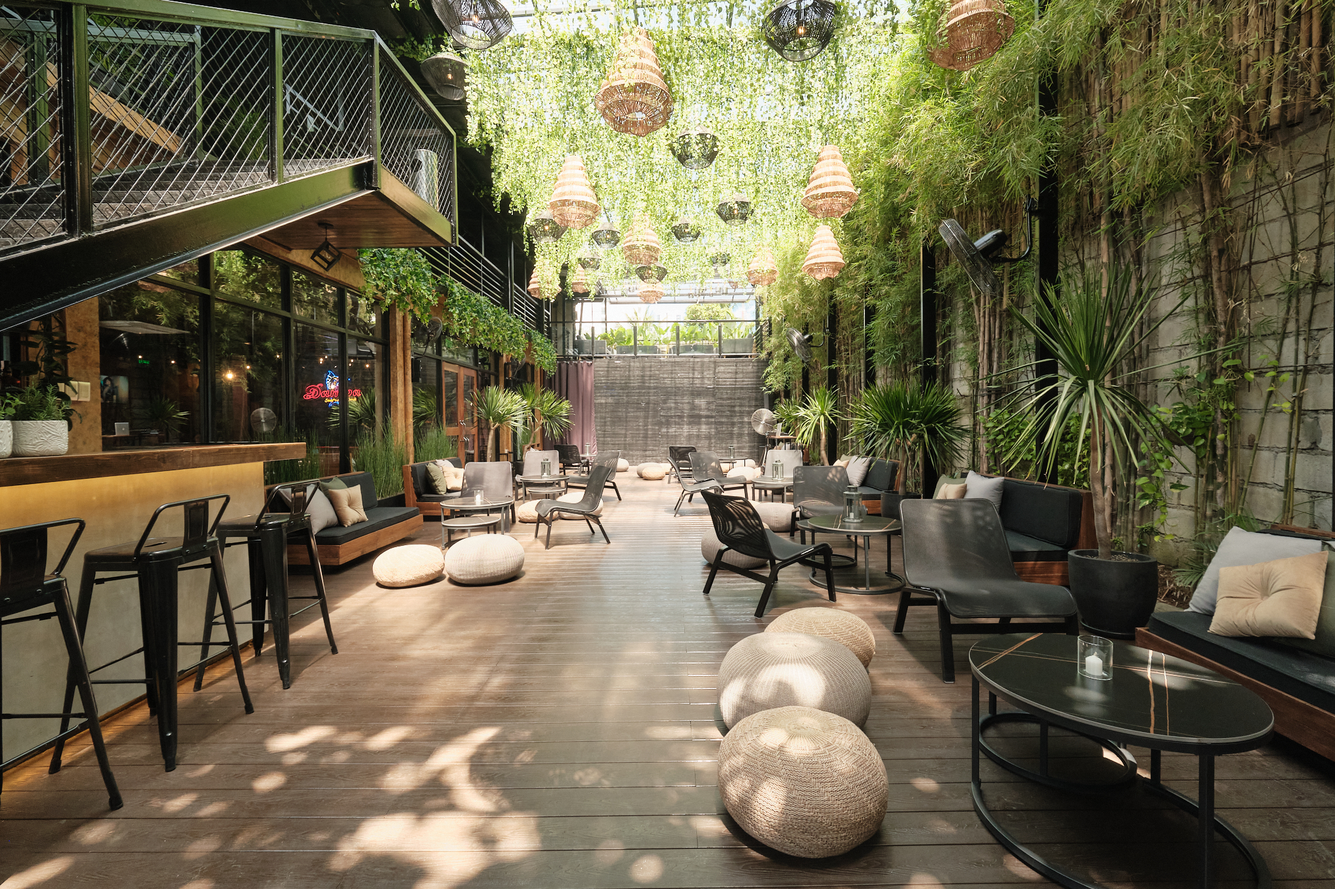
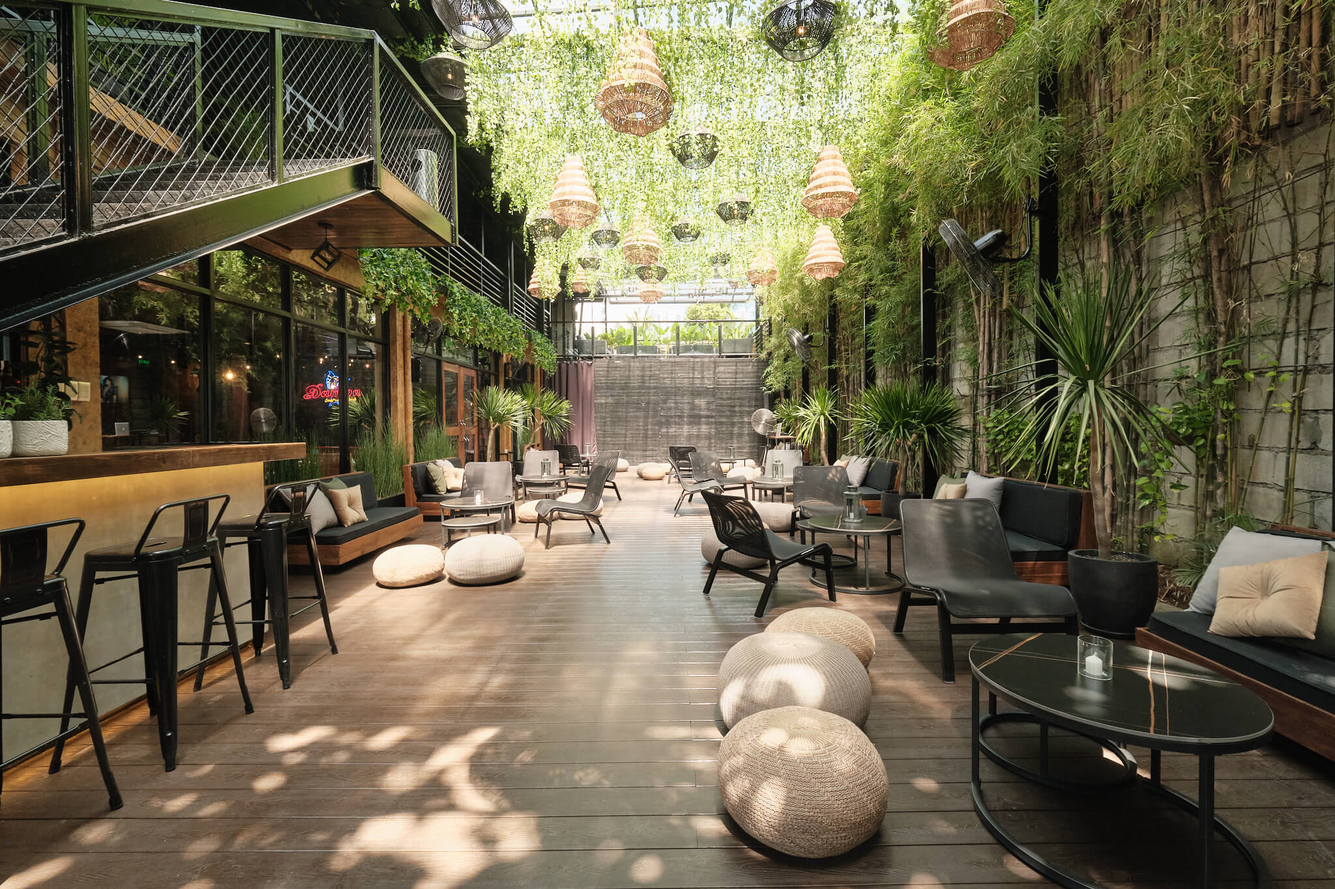
optimize image and minor revs

diff --git a/resources/views/pages/home.antlers.html b/resources/views/pages/home.antlers.html
@@ -4,11 +4,11 @@
     </div>
     <div class="flex-1 relative z-10 p-4 animation-element animate-1">
         <div class="flex items-center justify-center flex-col gap-6">
-            <h1 class="text-2xl lg:text-5xl flex w-full justify-center flex-col lg:flex-row">
-                <span class="flex-1 lg:text-right lg:py-4">bringing</span>
-                <div class="scroll-up-slider max-w-sm lg:px-4 flex flex-col mb-0">
+            <h1 class="text-xl lg:text-5xl flex w-full justify-center flex-row">
+                <span class="flex-1 text-right lg:py-4">bringing</span>
+                <div class="scroll-up-slider w-40 lg:w-auto max-w-sm lg:px-4 flex flex-col mb-0">
                     {{ taxonomy:banner-tags }}
-                    <span class="whitespace-nowrap lg:text-center lg:py-4 font-bold">{{title}}</span>
+                    <span class="whitespace-nowrap text-center lg:py-4 font-bold">{{title}}</span>
                     {{ /taxonomy:banner-tags }}
                 </div>
                 <span class="flex-1 lg:py-4">to life</span>
@@ -83,8 +83,9 @@
     <div class="flex gap-8 flex-col lg:flex-row">
         <div class="gallery-images w-full h-full grid grid-cols-1 lg:grid-cols-3 gap-8">
             {{taxonomy:gallery}}
-            <div class="relative flex-1 animation-element animate-2">
+            <div class="relative flex-1 animation-element animate-2 add-overlay">
                 <img class="object-cover w-full h-96" src="{{image}}">
+                <div class="z-10 absolute bottom-0 left-0 text-white p-2 text-xl">{{title}}</div>
             </div>
             {{/taxonomy:gallery}}
         </div>
@@ -145,7 +146,7 @@
     <div class="flex justify-center items-center gap-8 slider-nav">
         {{taxonomy:qoutes}}
         <div class="p-2">
-            <div class="flex justify-center align-center cursor-pointer">
+            <div class="flex justify-center items-center cursor-pointer">
                 <img class="rounded-full w-32 h-32" src="{{qoute_image}}">
             </div>
         </div>
@@ -158,7 +159,7 @@
     <div class="brand-slider">
         {{ taxonomy:brands }}
         <div class="p-4">
-            <div class="flex align-center justify-center">
+            <div class="flex items-center justify-center">
                 <img class="h-32" src="{{logo}}">
             </div>
         </div>
@@ -171,7 +172,7 @@
     <div class="affiliation-slider">
         {{ taxonomy:affiliations }}
         <div class="p-4">
-            <div class="flex align-center justify-center">
+            <div class="flex items-center justify-center">
                 <img class="h-32" src="{{logo}}"> 
             </div>
         </div>
@@ -179,12 +180,17 @@
     </div>
 </div>
 
-<div>        
+<div class="relative">        
     <div class="instagram-slider mb-0">
         {{ taxonomy:instagram_posts }}
             <div>
                 <img class="w-full h-64 object-cover" src="{{image}}">
             </div>
         {{ /taxonomy:instagram_posts }}
+    </div>
+    <div class="absolute top-0 left-0 w-full h-full flex justify-center items-center">
+        <div class="p-6 lg:p-8 bg-white rounded-full">
+            <svg class="w-8 h-8 lg:w-10 lg:h-10" xmlns="http://www.w3.org/2000/svg" width="2500" height="2500" viewBox="0 0 2476 2476" id="instagram"><path d="M825.4 1238c0-227.9 184.7-412.7 412.6-412.7 227.9 0 412.7 184.8 412.7 412.7 0 227.9-184.8 412.7-412.7 412.7-227.9 0-412.6-184.8-412.6-412.7m-223.1 0c0 351.1 284.6 635.7 635.7 635.7s635.7-284.6 635.7-635.7-284.6-635.7-635.7-635.7S602.3 886.9 602.3 1238m1148-660.9c0 82 66.5 148.6 148.6 148.6 82 0 148.6-66.6 148.6-148.6s-66.5-148.5-148.6-148.5-148.6 66.5-148.6 148.5M737.8 2245.7c-120.7-5.5-186.3-25.6-229.9-42.6-57.8-22.5-99-49.3-142.4-92.6-43.3-43.3-70.2-84.5-92.6-142.3-17-43.6-37.1-109.2-42.6-229.9-6-130.5-7.2-169.7-7.2-500.3s1.3-369.7 7.2-500.3c5.5-120.7 25.7-186.2 42.6-229.9 22.5-57.8 49.3-99 92.6-142.4 43.3-43.3 84.5-70.2 142.4-92.6 43.6-17 109.2-37.1 229.9-42.6 130.5-6 169.7-7.2 500.2-7.2 330.6 0 369.7 1.3 500.3 7.2 120.7 5.5 186.2 25.7 229.9 42.6 57.8 22.4 99 49.3 142.4 92.6 43.3 43.3 70.1 84.6 92.6 142.4 17 43.6 37.1 109.2 42.6 229.9 6 130.6 7.2 169.7 7.2 500.3 0 330.5-1.2 369.7-7.2 500.3-5.5 120.7-25.7 186.3-42.6 229.9-22.5 57.8-49.3 99-92.6 142.3-43.3 43.3-84.6 70.1-142.4 92.6-43.6 17-109.2 37.1-229.9 42.6-130.5 6-169.7 7.2-500.3 7.2-330.5 0-369.7-1.2-500.2-7.2M727.6 7.5c-131.8 6-221.8 26.9-300.5 57.5-81.4 31.6-150.4 74-219.3 142.8C139 276.6 96.6 345.6 65 427.1 34.4 505.8 13.5 595.8 7.5 727.6 1.4 859.6 0 901.8 0 1238s1.4 378.4 7.5 510.4c6 131.8 26.9 221.8 57.5 300.5 31.6 81.4 73.9 150.5 142.8 219.3 68.8 68.8 137.8 111.1 219.3 142.8 78.8 30.6 168.7 51.5 300.5 57.5 132.1 6 174.2 7.5 510.4 7.5 336.3 0 378.4-1.4 510.4-7.5 131.8-6 221.8-26.9 300.5-57.5 81.4-31.7 150.4-74 219.3-142.8 68.8-68.8 111.1-137.9 142.8-219.3 30.6-78.7 51.6-168.7 57.5-300.5 6-132.1 7.4-174.2 7.4-510.4s-1.4-378.4-7.4-510.4c-6-131.8-26.9-221.8-57.5-300.5-31.7-81.4-74-150.4-142.8-219.3C2199.4 139 2130.3 96.6 2049 65c-78.8-30.6-168.8-51.6-300.5-57.5-132-6-174.2-7.5-510.4-7.5-336.3 0-378.4 1.4-510.5 7.5"></path></svg>
+        </div>
     </div>
 </div>

diff --git a/public/css/site.css b/public/css/site.css
@@ -357,6 +357,8 @@ video {
   top: 0px;
 }.z-10 {
   z-index: 10;
+}.order-last {
+  order: 9999;
 }.mx-auto {
   margin-left: auto;
   margin-right: auto;
@@ -404,6 +406,10 @@ video {
   height: 100%;
 }.h-screen {
   height: 100vh;
+}.h-10 {
+  height: 2.5rem;
+}.h-8 {
+  height: 2rem;
 }.max-h-20 {
   max-height: 5rem;
 }.w-10\/12 {
@@ -428,6 +434,8 @@ video {
   width: 3rem;
 }.w-8 {
   width: 2rem;
+}.w-10 {
+  width: 2.5rem;
 }.max-w-2xl {
   max-width: 42rem;
 }.max-w-3xl {
@@ -510,6 +518,9 @@ video {
 }.bg-gray-4 {
   --tw-bg-opacity: 1;
   background-color: rgb(36 36 36 / var(--tw-bg-opacity));
+}.bg-white {
+  --tw-bg-opacity: 1;
+  background-color: rgb(255 255 255 / var(--tw-bg-opacity));
 }.bg-contain {
   background-size: contain;
 }.bg-cover {
@@ -518,6 +529,10 @@ video {
   background-position: center;
 }.bg-top {
   background-position: top;
+}.bg-left-top {
+  background-position: left top;
+}.bg-left-bottom {
+  background-position: left bottom;
 }.object-cover {
   -o-object-fit: cover;
      object-fit: cover;
@@ -525,6 +540,10 @@ video {
   padding: 1rem;
 }.p-2 {
   padding: 0.5rem;
+}.p-10 {
+  padding: 2.5rem;
+}.p-6 {
+  padding: 1.5rem;
 }.px-4 {
   padding-left: 1rem;
   padding-right: 1rem;
@@ -566,6 +585,8 @@ video {
   padding-bottom: 2.5rem;
 }.text-center {
   text-align: center;
+}.text-right {
+  text-align: right;
 }.text-2xl {
   font-size: 1.5rem;
   line-height: 2rem;
@@ -629,8 +650,20 @@ to { opacity: 1; transform: none; } }.fadeInRight { animation-name: fadeInRight;
     animation-delay: 0s;
     animation-fill-mode: both;
     backface-visibility: hidden;
-}@media (min-width: 1024px) {.lg\:flex {
+}@media (min-width: 1024px) {.lg\:order-none {
+    order: 0;
+  }.lg\:flex {
     display: flex;
+  }.lg\:h-12 {
+    height: 3rem;
+  }.lg\:h-10 {
+    height: 2.5rem;
+  }.lg\:w-auto {
+    width: auto;
+  }.lg\:w-12 {
+    width: 3rem;
+  }.lg\:w-10 {
+    width: 2.5rem;
   }.lg\:flex-1 {
     flex: 1 1 0%;
   }.lg\:grid-cols-4 {
@@ -639,10 +672,24 @@ to { opacity: 1; transform: none; } }.fadeInRight { animation-name: fadeInRight;
     grid-template-columns: repeat(3, minmax(0, 1fr));
   }.lg\:flex-row {
     flex-direction: row;
+  }.lg\:items-start {
+    align-items: flex-start;
+  }.lg\:items-center {
+    align-items: center;
+  }.lg\:justify-start {
+    justify-content: flex-start;
+  }.lg\:justify-end {
+    justify-content: flex-end;
   }.lg\:justify-center {
     justify-content: center;
   }.lg\:gap-4 {
     gap: 1rem;
+  }.lg\:gap-16 {
+    gap: 4rem;
+  }.lg\:p-10 {
+    padding: 2.5rem;
+  }.lg\:p-8 {
+    padding: 2rem;
   }.lg\:px-20 {
     padding-left: 5rem;
     padding-right: 5rem;
@@ -652,6 +699,8 @@ to { opacity: 1; transform: none; } }.fadeInRight { animation-name: fadeInRight;
   }.lg\:py-4 {
     padding-top: 1rem;
     padding-bottom: 1rem;
+  }.lg\:text-left {
+    text-align: left;
   }.lg\:text-center {
     text-align: center;
   }.lg\:text-right {

diff --git a/resources/views/layouts/layout.antlers.html b/resources/views/layouts/layout.antlers.html
@@ -15,7 +15,7 @@
     <link rel="stylesheet" href="{{ mix src='css/styles.css' }}">
 </head>
 <body>
-    <header class="max-h-20 bg-center bg-cover" style="background-image: url('/assets/scrim-bg.png');">
+    <header class="max-h-20 bg-left-bottom bg-cover" style="background-image: url('/assets/scrim-bg.png');">
         <div class="flex items-center justify-between w-11/12 mx-auto py-2 px-4">
             <div>
                 <img src="{{ setting:logo }}" alt="Logo" class="h-16">
@@ -35,18 +35,18 @@
         {{ template_content }}
     </div>
     <footer class="bg-brown-1 text-white bg-top bg-cover" style="background-image: url('/assets/scrim-bg.png');">
-        <div class="flex flex-col w-10/12 mx-auto py-20 px-4 gap-16">
-            <div>
+        <div class="flex flex-col w-10/12 mx-auto py-20 px-4 gap-4 lg:gap-16">
+            <div class="flex justify-center lg:justify-start">
                 <img src="{{ setting:footer_logo }}" alt="Footer Logo" class="h-16">
             </div>
-            <div class="flex justify-between gap-4">
-                <div class="flex-1 flex flex-col gap-4">
+            <div class="flex flex-col lg:flex-row justify-between gap-4">
+                <div class="flex-1 flex flex-col gap-4 text-center lg:text-left items-center lg:items-start">
                     <p class="w-40">70 Sct. Limbaga, Tomas Morato Ave. Quezon City</p>
                     <p class="underline">info@scrimgroup.com</p>
                     <p>+ 63 912 3456 789</p>
                 </div>
-                <div class="flex-1 flex justify-center">
-                    <ul class="uppercase flex flex-col gap-4 font-bold">
+                <div class="flex-1 flex justify-center order-last lg:order-none">
+                    <ul class="uppercase flex flex-col gap-4 font-bold text-center lg:text-left">
                         <li><a href="/#About">About</a></li>
                         <li><a href="/#Brands">Brands</a></li>
                         <li><a href="/#Features">Features</a></li>
@@ -54,9 +54,9 @@
                         <li><a href="/#Contact">Contact Us</a></li>
                     </ul>
                 </div>
-                <div class="flex-1 flex justify-end">
+                <div class="flex-1 flex justify-center lg:justify-end order">
                     <div class="flex flex-col gap-4">
-                        <div class="semibold">Get in touch</div>
+                        <div class="semibold text-center lg:text-left">Get in touch</div>
                         <ul class="flex gap-4">
                             <li>
                                 <a>
@@ -76,6 +76,9 @@
                         </ul>
                     </div>
                 </div>
+            </div>
+            <div class="text-white text-center lg:text-left">
+                &copy; SCRIM Hospitality Group 2023
             </div>
         </div>
     </footer>

diff --git a/resources/sass/components/_coming.scss b/resources/sass/components/_coming.scss
@@ -9,3 +9,15 @@
     background-color: rgba(0,0,0,.4);
     z-index: 1;
 }
+.add-overlay:after {
+    content: '';
+    position: absolute;
+    left: 0;
+    top: 0;
+    right: 0;
+    bottom: 0;
+    background-image: url(/assets/coming-bg-overlay.png);
+    background-color: rgba(0,0,0,.4);
+    z-index: 1;
+    opacity: 0.5;
+}

diff --git a/public/css/styles.css b/public/css/styles.css
@@ -10,6 +10,19 @@
   z-index: 1;
 }
 
+.add-overlay:after {
+  content: "";
+  position: absolute;
+  left: 0;
+  top: 0;
+  right: 0;
+  bottom: 0;
+  background-image: url(/assets/coming-bg-overlay.png);
+  background-color: rgba(0, 0, 0, 0.4);
+  z-index: 1;
+  opacity: 0.5;
+}
+
 .landing-banner {
   min-height: 20rem;
 }
